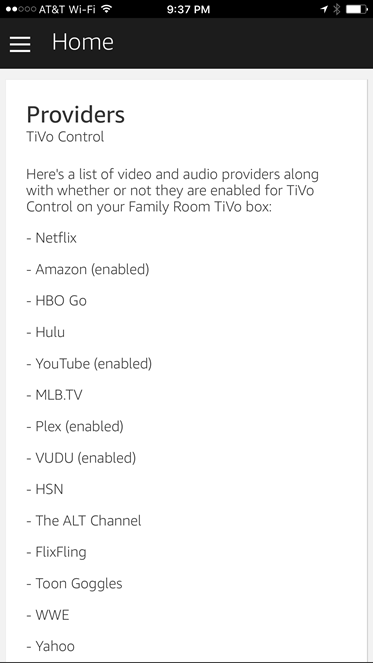
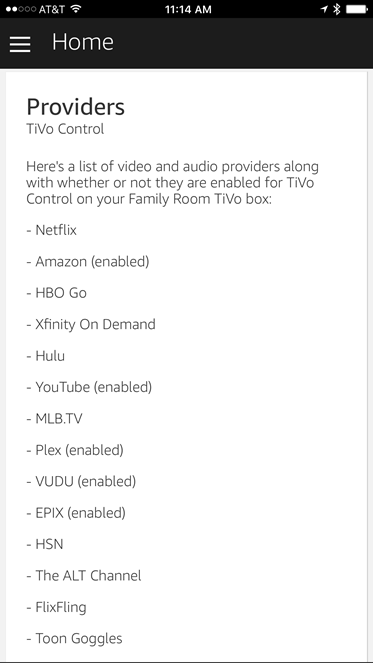
add EPIX video provider

diff --git a/app.js b/app.js
@@ -16,7 +16,7 @@ var chnllist = require("./chnllist.json");
 var route = config.route || "tivo_control";
 
 // set video and audio provider order
-var video_provider_order = [strings.netflix, strings.amazon, strings.hbogo, strings.xfinityondemand, strings.hulu, strings.youtube, strings.mlbtv, strings.plex, strings.vudu, strings.hsn, strings.alt, strings.flixfling, strings.toongoggles, strings.wwe, strings.yahoo, strings.yupptv];
+var video_provider_order = [strings.netflix, strings.amazon, strings.hbogo, strings.xfinityondemand, strings.hulu, strings.youtube, strings.mlbtv, strings.plex, strings.vudu, strings.epix, strings.hsn, strings.alt, strings.flixfling, strings.toongoggles, strings.wwe, strings.yahoo, strings.yupptv];
 var audio_provider_order = [strings.iheartradio, strings.pandora, strings.plex_m, strings.spotify, strings.vevo];
 
 // define variables
@@ -910,6 +910,25 @@ app.intent('VUDU',
             response.say(strings.vudu + strings.txt_notenabled);
         }
     });
+
+app.intent('EPIX',
+    {
+        "slots":{},
+        "utterances":[ "{go to|open|turn on|open up|display|jump to|launch|} {epics|epix}" ]
+    },
+    function(request,response) {
+        if (checkProviderEnabled(strings.epix)) {
+            response.say("Launching " + strings.epix);
+            var commands = [];
+            commands = addInitCommands(commands);
+            commands = openMediaCommands(commands);
+            commands = buildProviderNavigation(strings.epix, commands);
+            sendCommands(commands);
+        }
+        else {
+            response.say(strings.epix + strings.txt_notenabled);
+        }
+    });
 	
 app.intent('HSN',
     {
@@ -1477,7 +1496,7 @@ function updateCurrentTiVoConfig(tivoIndex) {
     tivoMini = config.tivos[tivoIndex].mini;
 
     // update video provider status
-    video_provider_status = [config.tivos[tivoIndex].netflix, config.tivos[tivoIndex].amazon, config.tivos[tivoIndex].hbogo, config.tivos[tivoIndex].xfinityondemand, config.tivos[tivoIndex].hulu, config.tivos[tivoIndex].youtube, config.tivos[tivoIndex].mlbtv, config.tivos[tivoIndex].plex, config.tivos[tivoIndex].vudu, config.tivos[tivoIndex].hsn, config.tivos[tivoIndex].alt, config.tivos[tivoIndex].flixfling, config.tivos[tivoIndex].toongoggles, config.tivos[tivoIndex].wwe, config.tivos[tivoIndex].yahoo, config.tivos[tivoIndex].yupptv];
+    video_provider_status = [config.tivos[tivoIndex].netflix, config.tivos[tivoIndex].amazon, config.tivos[tivoIndex].hbogo, config.tivos[tivoIndex].xfinityondemand, config.tivos[tivoIndex].hulu, config.tivos[tivoIndex].youtube, config.tivos[tivoIndex].mlbtv, config.tivos[tivoIndex].plex, config.tivos[tivoIndex].vudu, config.tivos[tivoIndex].epix, config.tivos[tivoIndex].hsn, config.tivos[tivoIndex].alt, config.tivos[tivoIndex].flixfling, config.tivos[tivoIndex].toongoggles, config.tivos[tivoIndex].wwe, config.tivos[tivoIndex].yahoo, config.tivos[tivoIndex].yupptv];
  
     // update audio provider status
     audio_provider_status = [config.tivos[tivoIndex].iheartradio, config.tivos[tivoIndex].pandora, config.tivos[tivoIndex].plex_m, config.tivos[tivoIndex].spotify, config.tivos[tivoIndex].vevo];
